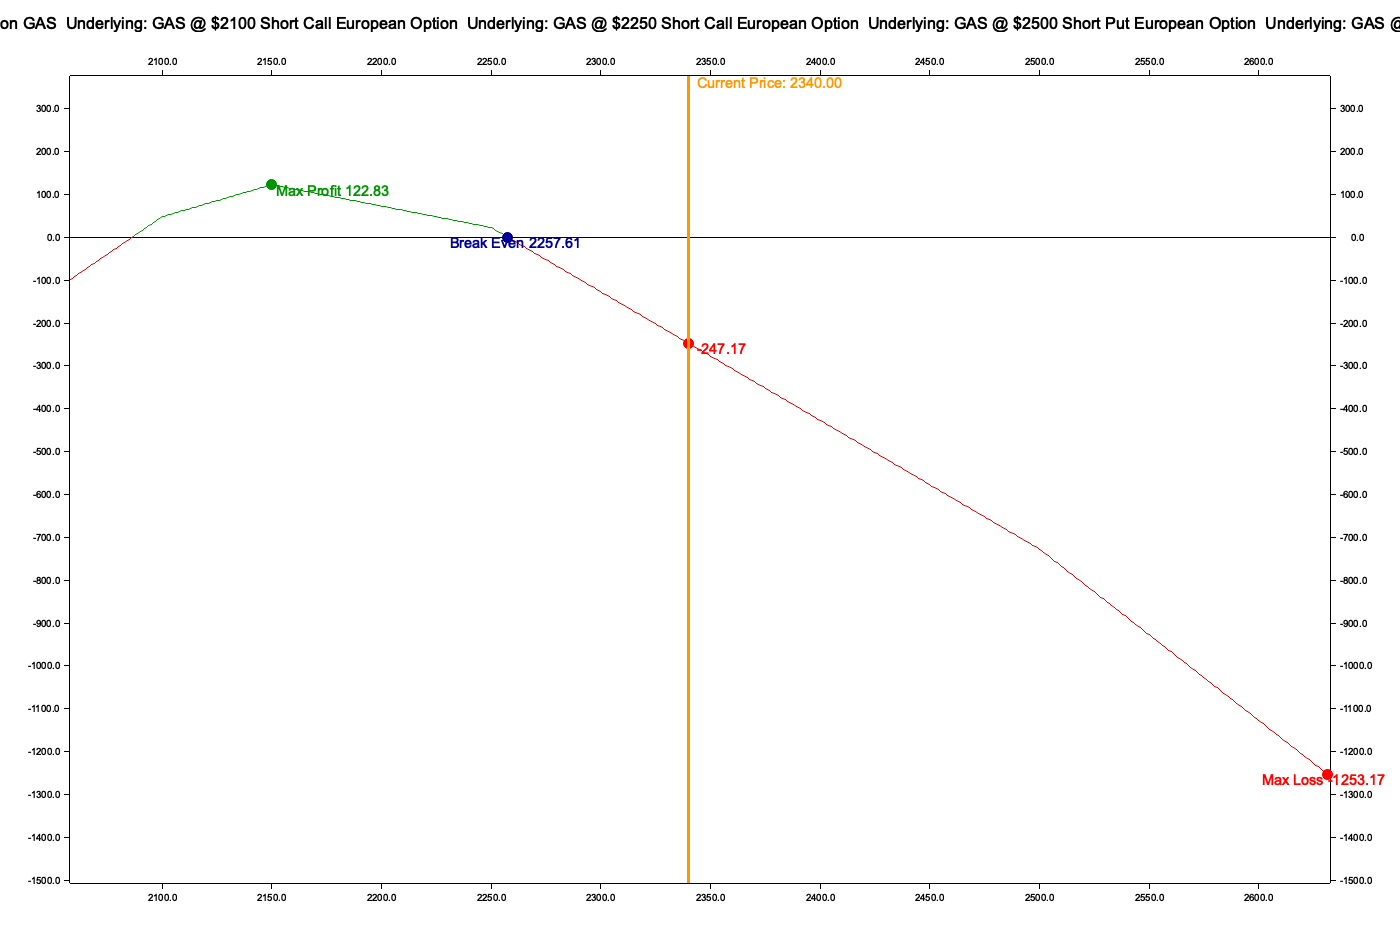
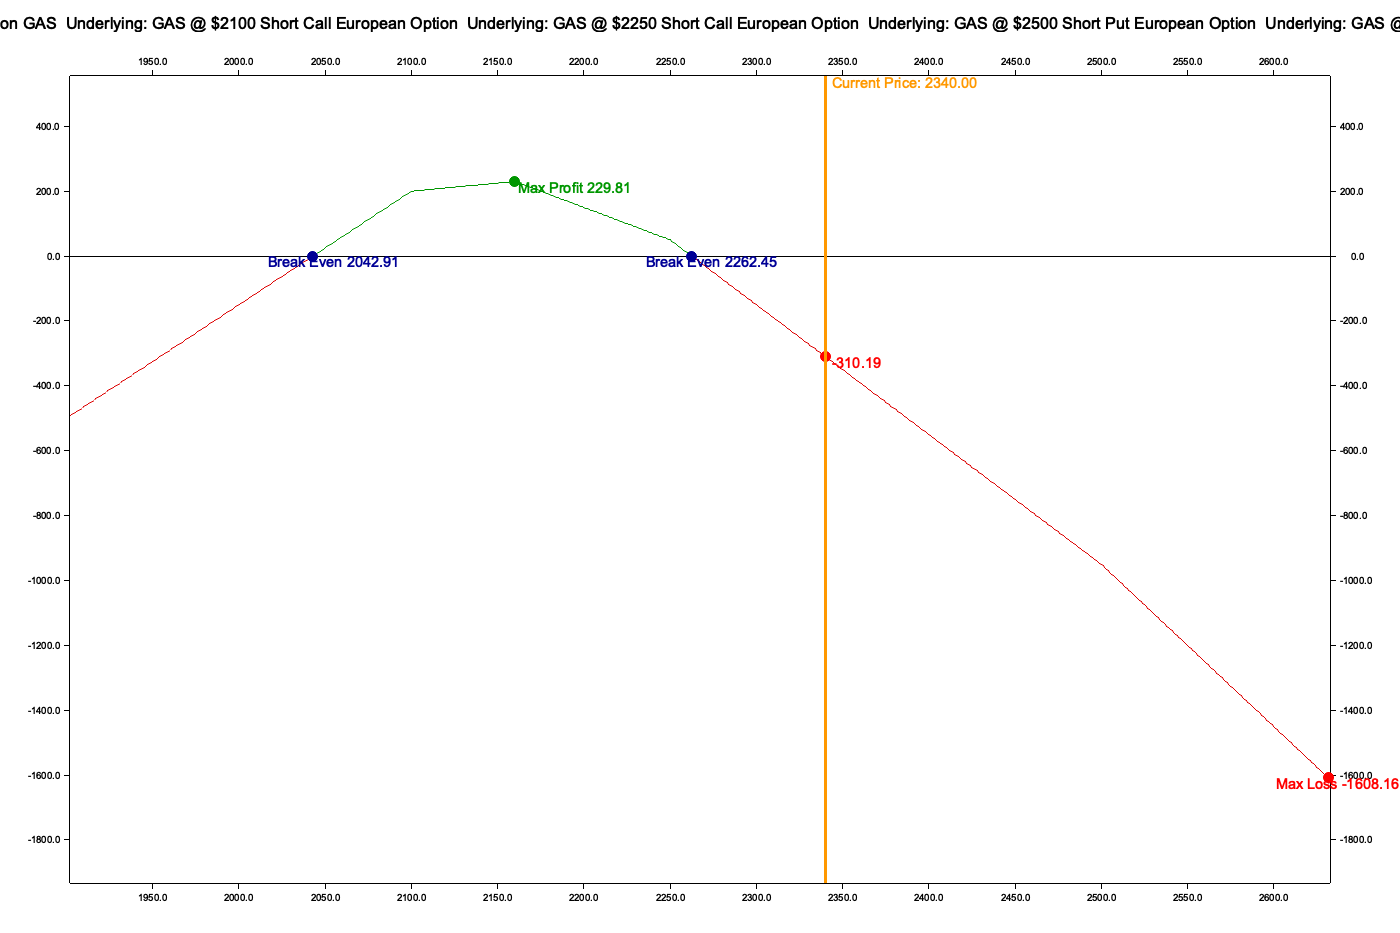
Refactor break-even calculation for precision and efficiency
Rewrote break-even point logic for improved accuracy and clarity, including linear interpolation and Newton-Raphson refinement. Added finer sampling, better error handling, and utility functions to ensure uniqueness. Simplified the codebase by removing unnecessary methods and improving range calculations. (ref. #83)

diff --git a/src/strategies/custom.rs b/src/strategies/custom.rs
@@ -83,73 +83,105 @@ impl CustomStrategy {
         self.calculate_break_even_points();
     }
 
+    /// Find break-even points by analyzing profit curve inflection points
+    /// Uses a combination of numerical methods to find zeros in the profit function
     fn calculate_break_even_points(&mut self) {
         self.break_even_points = Vec::new();
-        let step = self.step_by;
 
-        let mut current_price = Positive::ZERO;
-        let (_, max_search_price) = self.range_to_show().unwrap();
-        let mut last_profit = self.calculate_profit_at(current_price);
+        // Get the visible range for our search
+        let (min_price, max_price) = self.range_to_show().unwrap();
 
-        while current_price < max_search_price {
-            let current_profit = self.calculate_profit_at(current_price);
-            if last_profit.signum() != current_profit.signum() {
-                let mut low = current_price - step;
-                let mut high = current_price;
-                let mut iterations = 0;
+        // Create a finer grid for initial sampling
+        let num_samples = 1000; // Increased for better precision
+        let fine_step = (max_price - min_price) / num_samples as f64;
 
-                'inner: while (high - low).to_f64().abs() > self.epsilon
-                    && iterations < self.max_iterations
-                {
-                    let mid = (low + high) / 2.0;
-                    let mid_profit = self.calculate_profit_at(mid);
+        // Sample profits at regular intervals to create a profit curve
+        let mut price_profit_pairs: Vec<(Positive, f64)> = Vec::new();
+        let mut current_price = min_price;
 
-                    if mid_profit.abs() < self.epsilon {
-                        debug!(
-                            "Break-even point found at price: {} value {}",
-                            mid, mid_profit
-                        );
-                        if !self.break_even_points.contains(&mid) {
-                            self.break_even_points.push(mid);
-                        }
-                        break 'inner;
-                    } else if mid_profit.signum() == last_profit.signum() {
-                        low = mid;
-                    } else {
-                        high = mid;
+        while current_price <= max_price {
+            let profit = self.calculate_profit_at(current_price);
+            price_profit_pairs.push((current_price, profit));
+            current_price += fine_step;
+        }
+
+
+        // Analyze consecutive pairs for potential break-even points
+        for window in price_profit_pairs.windows(2) {
+            if let [(price1, profit1), (price2, profit2)] = window {
+                // Check if profits have different signs
+                if (profit1.signum() != profit2.signum()) ||
+                    profit1.abs() < self.epsilon ||
+                    profit2.abs() < self.epsilon {
+
+                    // Handle cases where profit is very close to zero
+                    if profit1.abs() < self.epsilon {
+                        self.add_unique_break_even(*price1);
+                        continue;
+                    }
+                    if profit2.abs() < self.epsilon {
+                        self.add_unique_break_even(*price2);
+                        continue;
                     }
 
-                    iterations += 1;
-                }
+                    // Linear interpolation for better initial guess
+                    let t = -profit1 / (profit2 - profit1);
+                    let initial_guess = *price1 + (*price2 - *price1) * t;
 
-                if iterations == self.max_iterations {
-                    debug!(
-                        "Max iterations reached at price: {} value {}",
-                        current_price, current_profit
-                    );
-                    let mid_point = (low + high) / 2.0;
-                    if !self.break_even_points.contains(&mid_point) {
-                        self.break_even_points.push(mid_point);
+                    // Refine using Newton-Raphson method
+                    if let Some(refined_point) = self.refine_break_even_point(initial_guess) {
+                        self.add_unique_break_even(refined_point);
                     }
                 }
             }
-
-            last_profit = current_profit;
-            current_price += step;
         }
 
-        if self.break_even_points.is_empty() {
-            debug!("No break-even points found");
-        } else {
-            debug!(
-                "Break Even Points found: {}",
-                self.break_even_points
-                    .iter()
-                    .map(|p| format!("{:.2}", p))
-                    .collect::<Vec<String>>()
-                    .join(", ")
-            );
+        // Sort break-even points for consistency
+        self.break_even_points.sort_by(|a, b| a.partial_cmp(b).unwrap());
+    }
+
+    /// Refine a break-even point guess using Newton-Raphson method
+    fn refine_break_even_point(&self, initial_guess: Positive) -> Option<Positive> {
+        let mut x = initial_guess;
+        let mut iterations = 0;
+
+        while iterations < self.max_iterations {
+            let f_x = self.calculate_profit_at(x);
+
+            // Check if we're close enough to zero
+            if f_x.abs() < self.epsilon {
+                return Some(x);
+            }
+
+            // Calculate derivative numerically with smaller step
+            let h = self.epsilon.sqrt();
+            let derivative = (self.calculate_profit_at(x + h) - f_x) / h;
+
+            // Avoid division by very small numbers
+            if derivative.abs() < self.epsilon {
+                break;
+            }
+
+            // Newton-Raphson step
+            let next_x = x - f_x / derivative;
+
+            // Check for convergence with absolute difference
+            if (next_x.to_f64() - x.to_f64()).abs() < self.epsilon {
+                return Some(next_x);
+            }
+
+            x = next_x;
+            iterations += 1;
         }
+
+        None
+    }
+
+    /// Add a break-even point if it's not already in the list
+    fn add_unique_break_even(&mut self, point: Positive) {
+        if !self.break_even_points.iter().any(|p| (p.to_f64() - point.to_f64()).abs() < self.epsilon) {
+            self.break_even_points.push(point);
+        } 
     }
 }
 
@@ -245,15 +277,6 @@ impl Strategies for CustomStrategy {
             .positions
             .iter()
             .map(|position| position.net_premium_received())
-            .sum::<f64>();
-        Ok(Decimal::from_f64(restult).unwrap())
-    }
-
-    fn fees(&self) -> Result<Decimal, StrategyError> {
-        let restult = self
-            .positions
-            .iter()
-            .map(|position| position.open_fee + position.close_fee)
             .sum::<f64>();
         Ok(Decimal::from_f64(restult).unwrap())
     }

diff --git a/src/strategies/base.rs b/src/strategies/base.rs
@@ -14,6 +14,7 @@ use crate::strategies::utils::{calculate_price_range, FindOptimalSide, Optimizat
 use crate::Positive;
 use rust_decimal::Decimal;
 use std::f64;
+use itertools::Itertools;
 use num_traits::FromPrimitive;
 use rust_decimal_macros::dec;
 use tracing::error;
@@ -173,7 +174,7 @@ pub trait Strategies: Validable + Positionable {
 
         let start_price = *all_points.first().unwrap() * STRIKE_PRICE_LOWER_BOUND_MULTIPLIER;
         let end_price = *all_points.last().unwrap() * STRIKE_PRICE_UPPER_BOUND_MULTIPLIER;
-        Ok((start_price, end_price))
+        Ok((start_price , end_price))
     }
 
     fn best_range_to_show(&self, step: Positive) -> Result<Vec<Positive>, StrategyError> {
@@ -194,14 +195,20 @@ pub trait Strategies: Validable + Positionable {
             }
         };
 
-        Ok(positions
+        let strikes: Vec<Positive> = positions
             .iter()
             .map(|leg| leg.option.strike_price)
-            .collect())
+            .collect::<Vec<_>>()
+            .into_iter()
+            .sorted()
+            .collect();
+        
+        Ok(strikes)
     }
 
     fn max_min_strikes(&self) -> Result<(Positive, Positive), StrategyError> {
         let strikes = self.strikes()?;
+
         if strikes.is_empty() {
             return Err(StrategyError::OperationError(
                 OperationErrorKind::InvalidParameters {

diff --git a/examples/examples_strategies/src/bin/strategy_custom.rs b/examples/examples_strategies/src/bin/strategy_custom.rs
@@ -22,7 +22,7 @@ fn main() -> Result<(), Box<dyn Error>> {
 
     // Short Call 1
     let short_strike_1_strike = pos!(2100.0);
-    let short_strike_1_quantity = pos!(2.0);
+    let short_strike_1_quantity = pos!(3.0);
     let short_strike_1_premium = 192.0;
     let short_strike_1_open_fee = 7.51;
     let short_strike_1_close_fee = 7.51;
@@ -104,7 +104,7 @@ fn main() -> Result<(), Box<dyn Error>> {
         short_put_close_fee,
     );
 
-    let extra_strike = pos!(2150.0);
+    let extra_strike = pos!(2160.0);
     let extra_quantity = pos!(2.5);
     let extra_premium = 21.0;
     let extra_open_fee = 4.91;
@@ -140,10 +140,11 @@ fn main() -> Result<(), Box<dyn Error>> {
         underlying_price,
         positions,
         pos!(0.01),
-        100,
-        pos!(0.1),
+        200,
+        pos!(0.01),
     );
     let price_range = strategy.best_range_to_show(pos!(1.0)).unwrap();
+    info!("Range: {} {}", price_range.first().unwrap(), price_range.last().unwrap());
 
     info!("Title: {}", strategy.title());
     info!(
